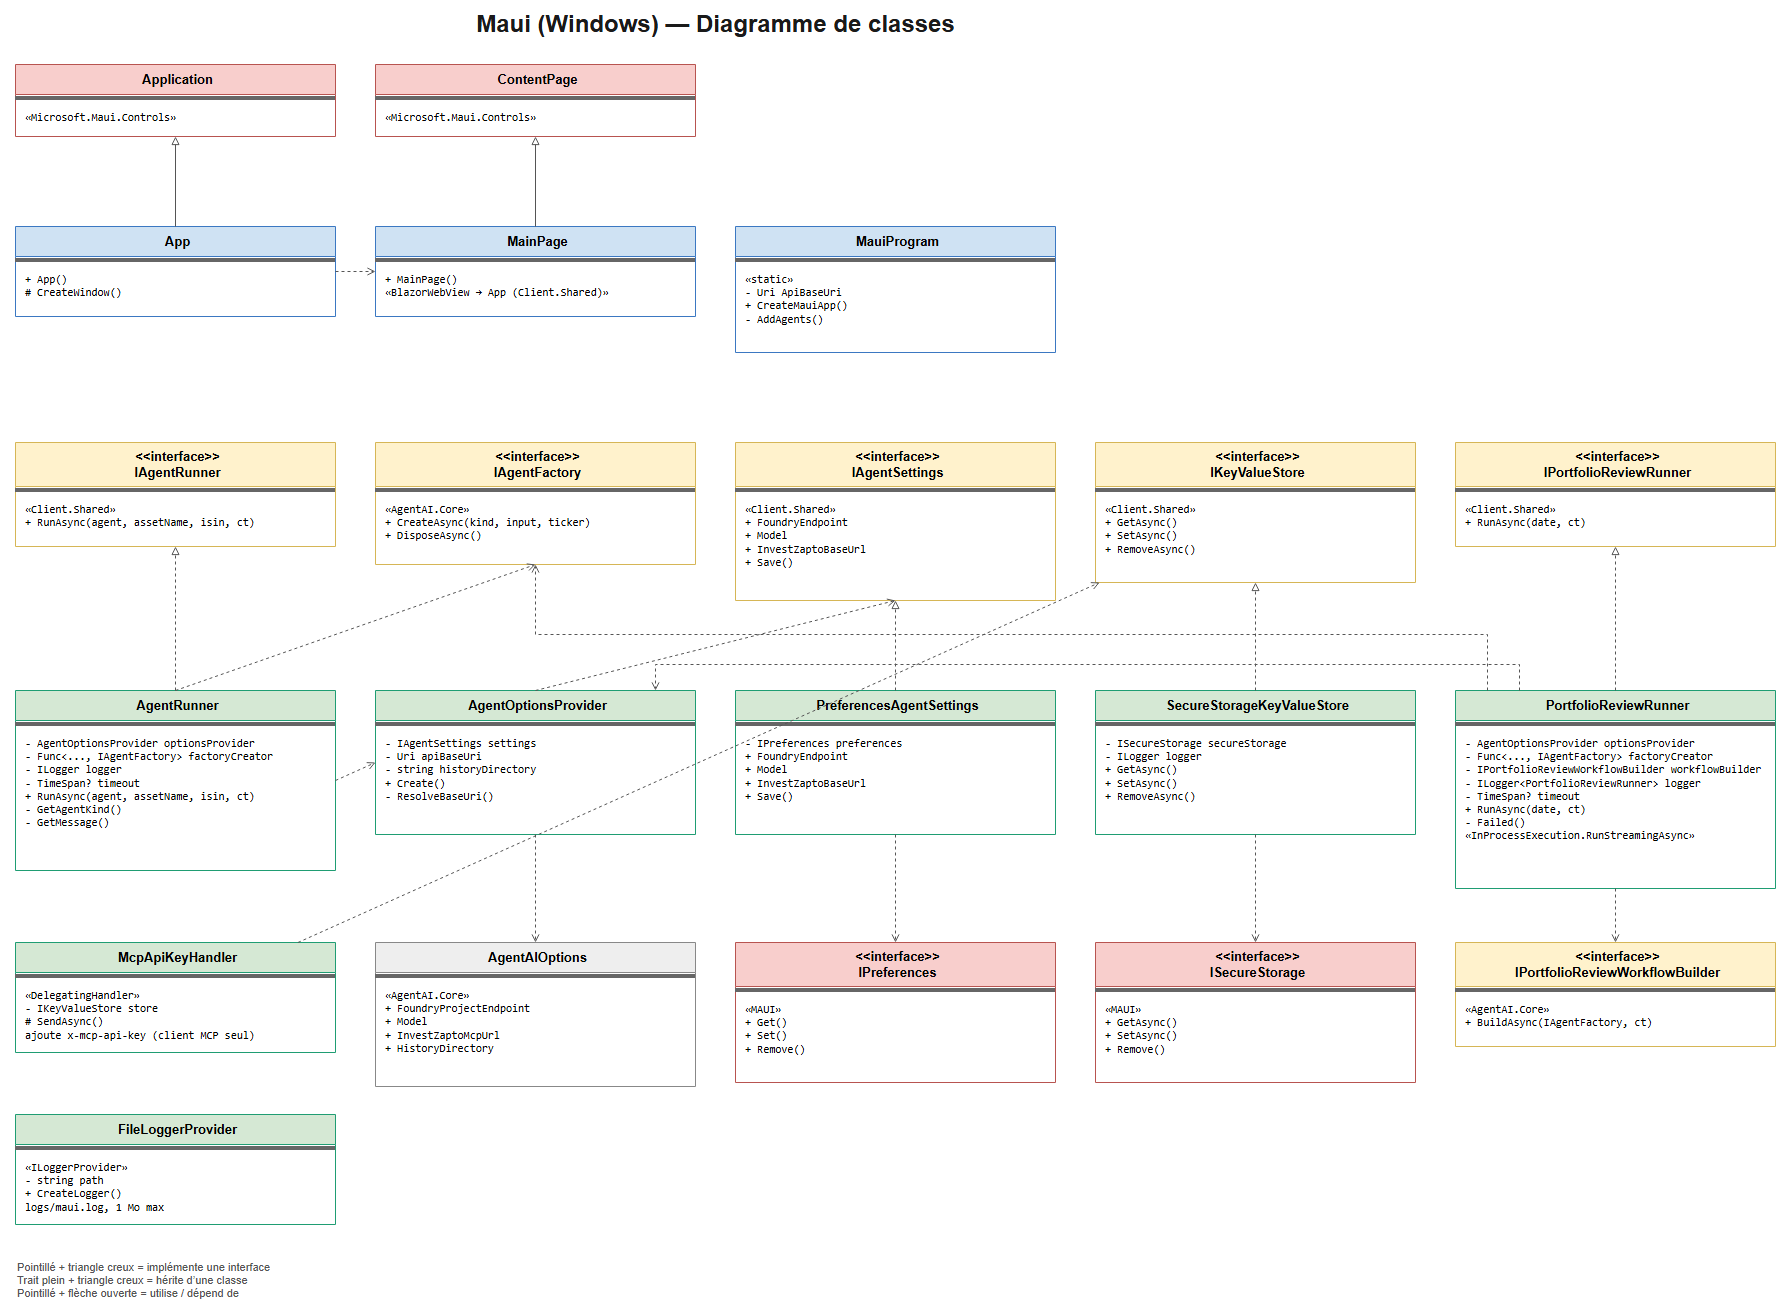
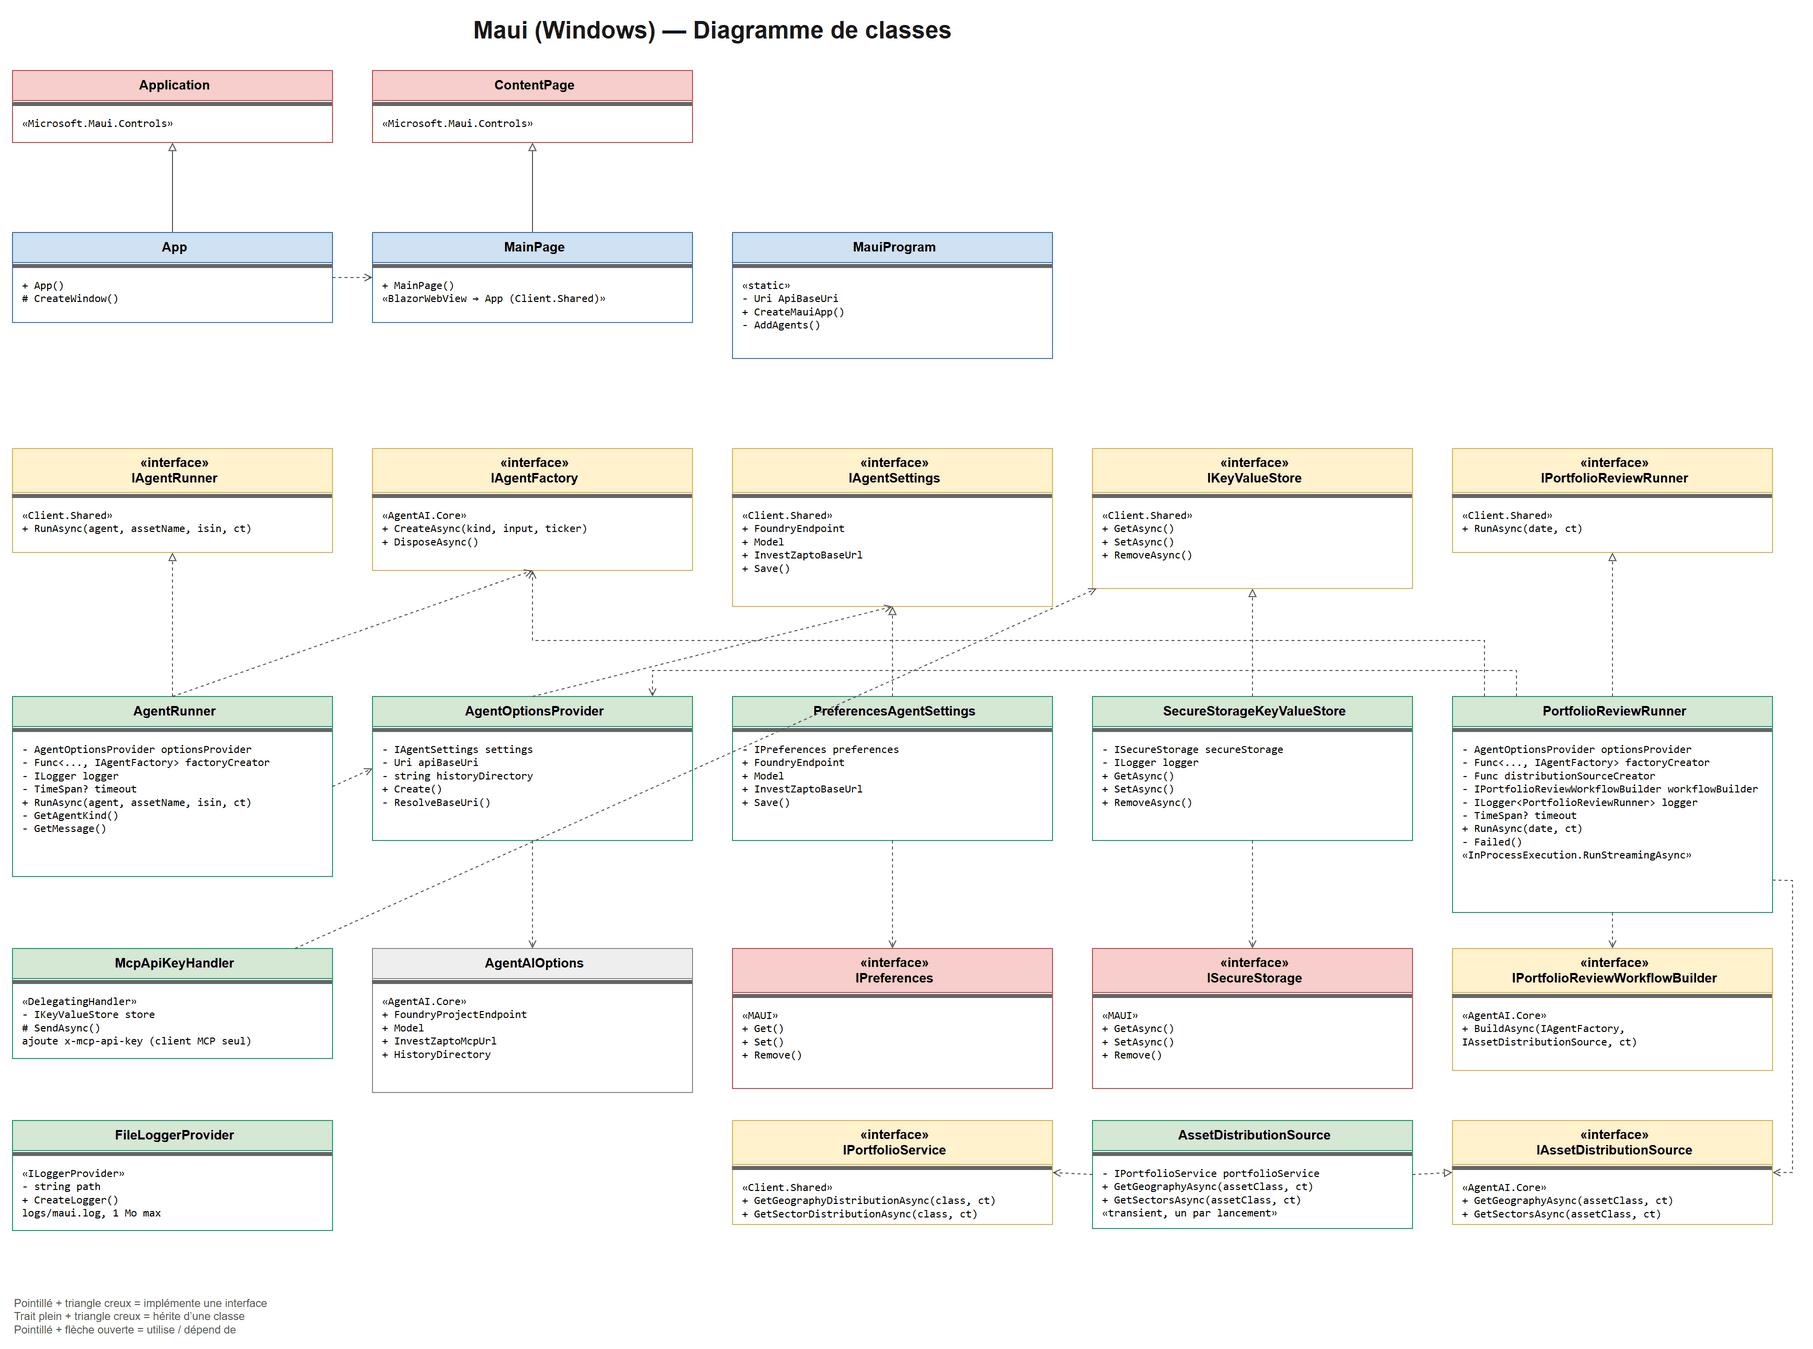
docs: réexporte les diagrammes de classes et corrige le nombre de tests de l'Api
- AgentAI.Core/Docs/agentai-class-diagram.drawio/.png : étiquette «interface» corrigée, PNG réexporté (étape répartitions du workflow)
- Api/Docs/api-class-diagram.drawio/.png : étiquette «interface» corrigée, PNG réexporté (secteur, coupons de l'échéancier)
- Client.Shared/Docs/client-shared-class-diagram.drawio/.png : étiquette «interface» corrigée, PNG réexporté (GetSectorDistributionAsync)
- Maui/Docs/maui-class-diagram.drawio/.png : étiquette «interface» corrigée, PNG réexporté (AssetDistributionSource)
- Api/Docs/CLAUDE.md : 142 tests après le merge des PR #142 et #143
- CLAUDE.md : la règle des diagrammes impose «interface» (les chevrons <<…>> sont lus comme une balise HTML et effacés)

diff --git a/CLAUDE.md b/CLAUDE.md
@@ -317,7 +317,7 @@ investment-dashboard/
 
 Les dossiers `Docs/` portent les fichiers `CLAUDE.md` (casse exacte : la CI tourne sous Linux) et `SPECS.md`. Les bibliothèques techniques `GoogleSheets`, `Shared` et `AgentAI.Core` n'ont pas de `SPECS.md` (aucune fonctionnalité utilisateur propre).
 
-**Diagrammes de classes** : un par projet (`Api`, `Client.Shared`, `Maui`, `AgentAI.Core`), au format draw.io (`.drawio` + `.png`) dans le `Docs/` du projet, nommés `<projet>-class-diagram.*`. Règles communes : une classe = un rectangle à trois zones (titre, séparateur, membres ; `- champ` injecté, `+ membre` public) ; couleurs par couche — vues/Functions/hôtes bleu, ViewModels violet, interfaces jaune (`<<interface>>`), services vert, modèles/utilitaires gris, externe rouge, middleware lavande ; **trait pointillé + triangle creux = implémente une interface**, **trait plein + triangle creux = hérite d'une classe**, **trait pointillé + flèche ouverte = utilise/dépend de** (légende reprise en bas de chaque diagramme). À mettre à jour dans le même geste que toute modification de classe ou de dépendance.
+**Diagrammes de classes** : un par projet (`Api`, `Client.Shared`, `Maui`, `AgentAI.Core`), au format draw.io (`.drawio` + `.png`) dans le `Docs/` du projet, nommés `<projet>-class-diagram.*`. Règles communes : une classe = un rectangle à trois zones (titre, séparateur, membres ; `- champ` injecté, `+ membre` public) ; couleurs par couche — vues/Functions/hôtes bleu, ViewModels violet, interfaces jaune (`«interface»`, et non `<<interface>>` : les chevrons sont lus comme une balise HTML et effacés), services vert, modèles/utilitaires gris, externe rouge, middleware lavande ; **trait pointillé + triangle creux = implémente une interface**, **trait plein + triangle creux = hérite d'une classe**, **trait pointillé + flèche ouverte = utilise/dépend de** (légende reprise en bas de chaque diagramme). À mettre à jour dans le même geste que toute modification de classe ou de dépendance.
 
 ### 8.3 Règle de contexte pour Claude Code
 

diff --git a/Api/Docs/CLAUDE.md b/Api/Docs/CLAUDE.md
@@ -240,7 +240,7 @@ Le dashboard déclenche plusieurs services en parallèle au chargement (`Task.Wh
 
 ## 11. Tests (`Api.Tests/`)
 
-xUnit + Moq, 125 tests, nommage `[Méthode]_[Scénario]_[RésultatAttendu]` :
+xUnit + Moq, 142 tests, nommage `[Méthode]_[Scénario]_[RésultatAttendu]` :
 - `Functions/` — `AssetsFunction`, `AuthFunction`, `McpFunction`, `SectorFunction`
 - `Mcp/` — `McpHandlerTests`
 - `Services/` — `AssetsService`, `BondScheduleService`, `GeographyService`, `PortfolioMetricsService`, `SectorService`, `SnapshotService`, `SyncService`
